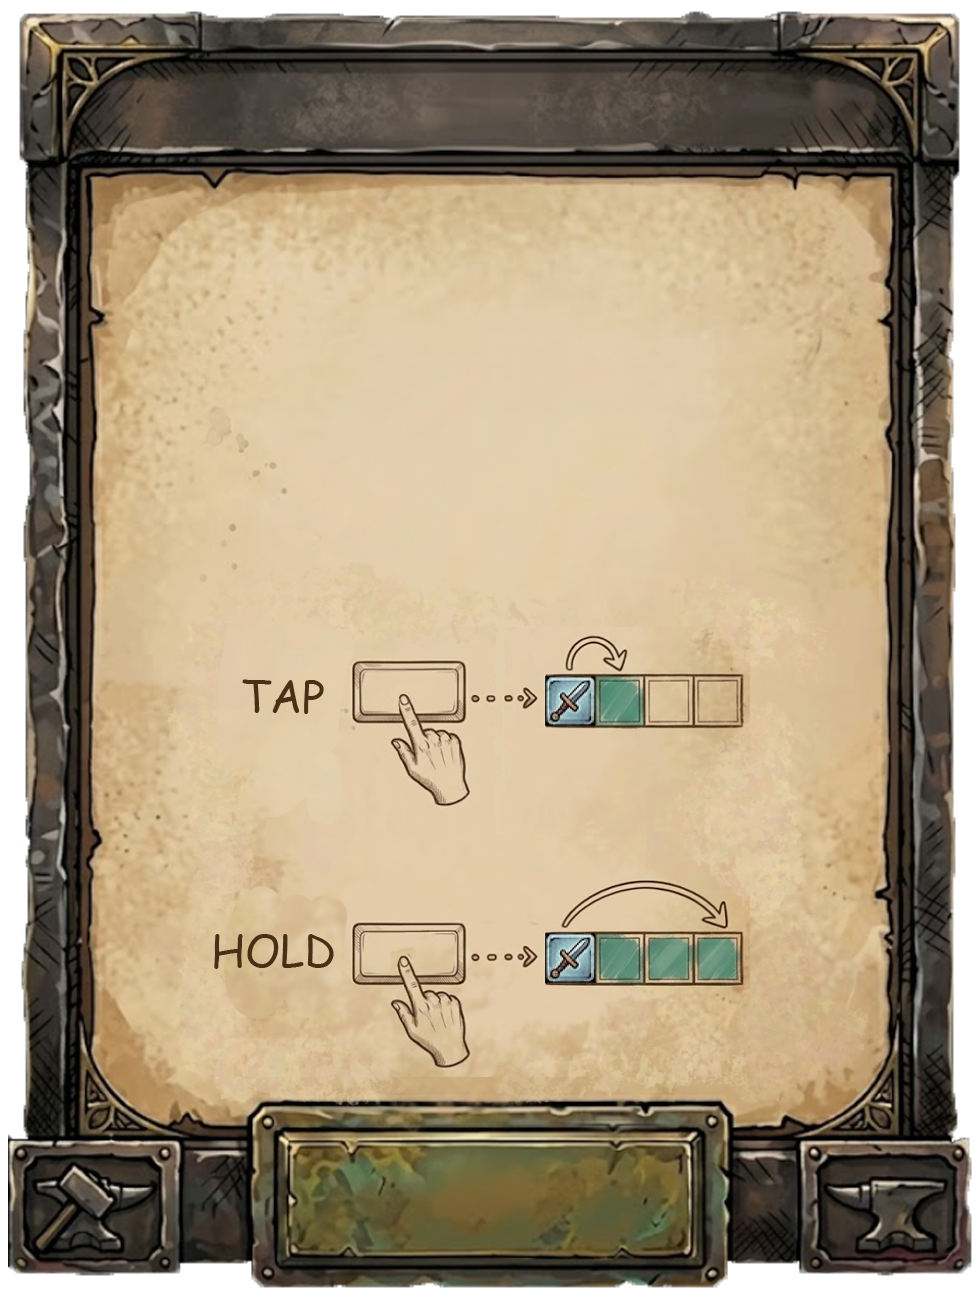
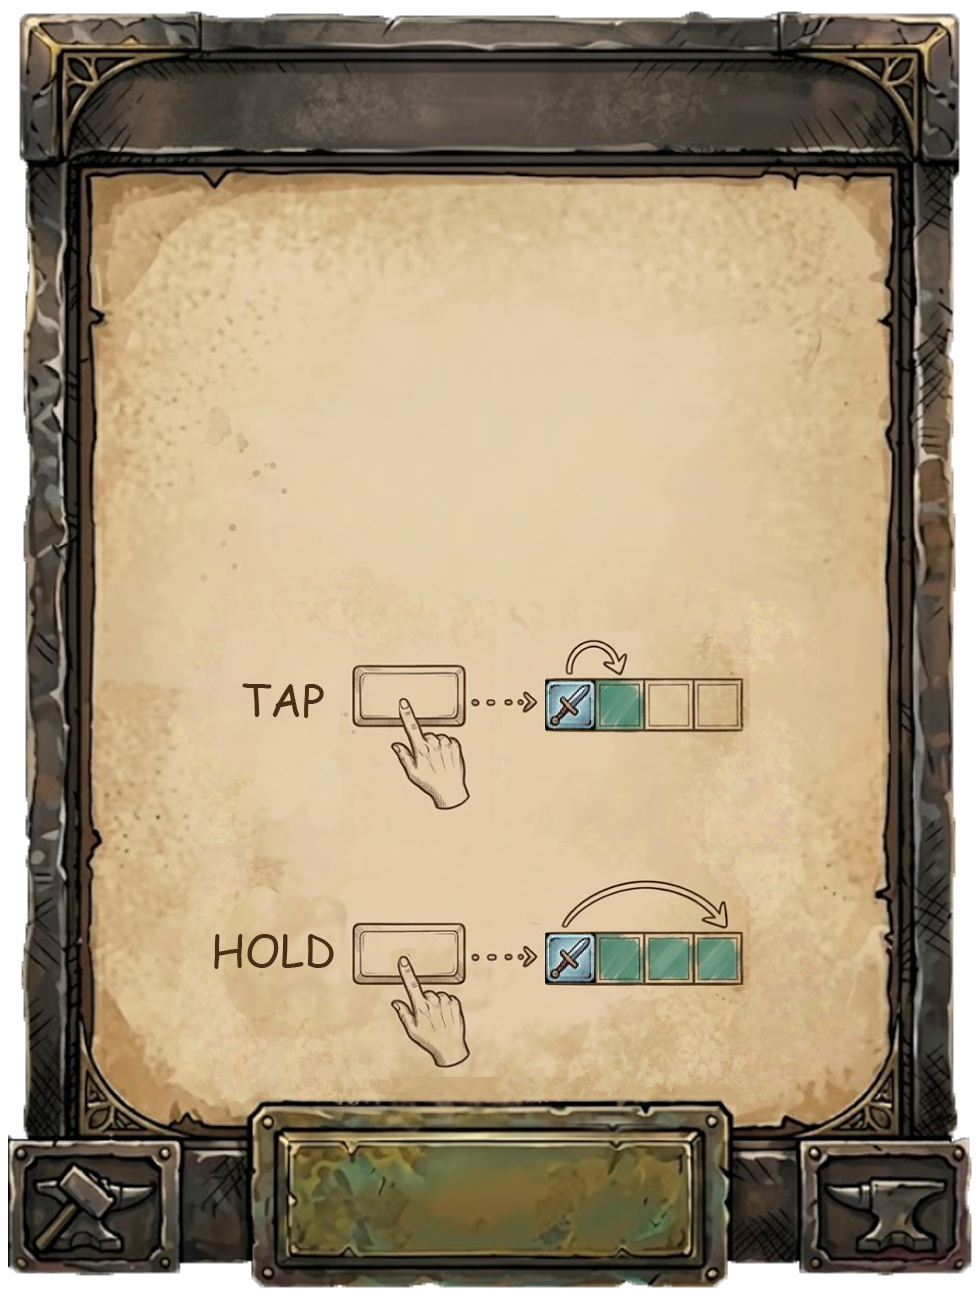
Heat timer + quality tiers, quality overlays, and dialogue/forge UI polish
Quality system:
- Per-trait heat timer (heatTimers; ⏱ readout, top-left, shown only once
  heating starts; safe 45s in the tutorial). Stabilize in time -> Epic;
  timer runs out -> the trait still fuses at Fine.
- Quality tiers Weak/Fine/Epic (+0/+10/+20 value). Blade HP caps quality
  at forge: >=80 Epic, 40-79 Fine, <40 Weak (min of heat outcome + cap).
- Quality overlays layered over the sword in the forge result AND the
  Design Desk preview: crack.png on Weak (hugs the blade), sparkle.png on
  Epic; Fine gets neither.

Forge-result window:
- Big bold quality headline under the sword; removed the Tier row.

Dialogue-box polish:
- Default frame: larger top padding so text no longer touches the top
  border on tall boxes.
- frame2 / frame9 / frame10 text lowered and centered above their baked
  diagrams; refreshed slider-lesson copy (frame9/10). Updated frame art.

Cheat/dev buttons (Skip Intro / +100 Gold / +100 Metals / Skip Tutorial)
remain on the side of the window in the live build.

Spec (Â§3/Â§4/Â§5) and plan.md updated.

Changed region(s): [[0.3677, 0.4889, 0.7661, 0.6112], [0.2451, 0.5195, 0.3371, 0.55]]

diff --git a/index.html b/index.html
@@ -373,7 +373,7 @@
         #newTraitModal { z-index: 1012; }
         #gameAlertModal { z-index: 1020; }
 
-        .dialogue-frame { position: relative; background: url('assets/ui/dialogue-frame.png') no-repeat center; background-size: 100% 100%; background-color: transparent; border: none; border-radius: 0; box-shadow: none; width: 82%; max-width: 300px; padding: 28px 36px 62px 36px; box-sizing: border-box; text-align: center; }
+        .dialogue-frame { position: relative; background: url('assets/ui/dialogue-frame.png') no-repeat center; background-size: 100% 100%; background-color: transparent; border: none; border-radius: 0; box-shadow: none; width: 82%; max-width: 300px; padding: 46px 36px 62px 36px; box-sizing: border-box; text-align: center; }
         .dialogue-title { font-family: 'Cinzel', serif; font-size: 15px; color: #4a3623; margin: 0 0 8px 0; font-weight: bold; }
         .dialogue-text { font-size: 13px; color: #3d2b1a; line-height: 1.55; margin: 0; }
         .dialogue-btn { position: absolute; top: 91.5%; left: 50%; transform: translate(-50%, -50%); background: transparent; border: none; color: #000; font-family: 'Cinzel', serif; font-size: 13px; font-weight: bold; cursor: pointer; padding: 4px 16px; letter-spacing: 0.5px; white-space: nowrap; }
@@ -384,12 +384,13 @@
            so lock the true image aspect ratio and confine text to the upper parchment. */
         .dialogue-frame.frame2 { background-image: url('assets/ui/dialogue-frame2.png'); aspect-ratio: 979 / 1309; padding: 0; }
         .dialogue-frame.frame2 .dialogue-title { position: absolute; top: 13%; left: 11%; right: 11%; margin: 0; font-size: 14px; }
-        .dialogue-frame.frame2 .dialogue-text { position: absolute; top: 20%; left: 11%; right: 11%; bottom: 42%; margin: 0; display: flex; flex-direction: column; align-items: center; justify-content: flex-start; text-align: center; overflow: hidden; font-size: 11px; line-height: 1.4; }
+        .dialogue-frame.frame2 .dialogue-text { position: absolute; top: 24%; left: 11%; right: 11%; bottom: 46%; margin: 0; display: flex; flex-direction: column; align-items: center; justify-content: center; text-align: center; overflow: hidden; font-size: 11px; line-height: 1.4; }
         /* Frames 9 & 10: Purify-slider lesson. Art (tap/hold, avoid-hazards) is baked into the lower half, so text sits in the upper parchment. */
         .dialogue-frame.frame9, .dialogue-frame.frame10 { aspect-ratio: 979 / 1309; padding: 0; }
         .dialogue-frame.frame9 { background-image: url('assets/ui/dialogue-frame9.png'); }
         .dialogue-frame.frame10 { background-image: url('assets/ui/dialogue-frame10.png'); }
-        .dialogue-frame.frame9 .dialogue-text, .dialogue-frame.frame10 .dialogue-text { position: absolute; top: 14%; left: 11%; right: 11%; bottom: 50%; margin: 0; display: flex; flex-direction: column; align-items: center; justify-content: flex-start; text-align: center; overflow: hidden; font-size: 11px; line-height: 1.4; }
+        .dialogue-frame.frame9 .dialogue-text, .dialogue-frame.frame10 .dialogue-text { position: absolute; top: 14%; left: 11%; right: 11%; bottom: 50%; margin: 0; display: flex; flex-direction: column; align-items: center; justify-content: center; text-align: center; overflow: hidden; font-size: 11px; line-height: 1.4; }
+        .dialogue-frame.frame10 .dialogue-text { top: 22%; bottom: 44%; } /* frame10's diagram sits lower, so its text drops further */
 
         /* Gameplay toast: shown briefly whenever the player steps onto a trait cell. */
         #traitToast { position: absolute; top: 64px; left: 50%; transform: translateX(-50%) translateY(-10px); background: rgba(44, 33, 22, 0.94); color: #f0d8a0; border: 1px solid #c8a84b; border-radius: 20px; padding: 8px 18px; font-family: 'Cinzel', serif; font-size: 13px; font-weight: bold; white-space: nowrap; box-shadow: 0 4px 10px rgba(0,0,0,0.4); z-index: 1000; opacity: 0; pointer-events: none; transition: opacity 0.3s ease, transform 0.3s ease; }
@@ -727,6 +728,7 @@
                         </div>
                     </div>
                     <div id="forge-instructions" class="forge-instructions">Tap Pulley to Lower Bucket</div>
+                    <div id="heat-timer" style="position: absolute; top: 8px; left: 8px; font-size: 13px; font-weight: bold; color: #ffd27f; background: rgba(0,0,0,0.6); padding: 3px 9px; border-radius: 6px; z-index: 10; display: none;"></div>
                 </div>
                 <button class="cancel-btn" onclick="cancelHeat()">Cancel Forging</button>
             </div>
@@ -745,6 +747,7 @@
                     <img id="preview-grip" src="" style="z-index: 2;">
                     <img id="preview-guard" src="" style="z-index: 3;">
                     <img id="preview-pommel" src="" style="z-index: 4;">
+                    <img id="preview-overlay" src="" style="z-index: 5; display: none;">
                 </div>
                 
                 <div class="tab-container">
@@ -979,9 +982,11 @@
         let bladeUnlocked = { Shortsword: true, Longsword: true, Broadsword: true };
         const BLADE_UNLOCK_COST = 50;
 
-        function openDesignModal(callback, traits) {
+        let designQuality = null; // projected quality of the sword being designed → drives the crack/sparkle preview overlay
+        function openDesignModal(callback, traits, quality) {
             pendingForgeCallback = callback;
             designTraits = traits || activeTraits; // which traits' part art to show
+            designQuality = quality || swordQuality({ traits: designTraits });
             document.getElementById('designModal').style.display = 'flex';
             currentDesign = { blade: 0, grip: 0, guard: 0, pommel: 0 };
             updateDesignPreview();
@@ -1135,6 +1140,10 @@
             document.getElementById('preview-grip').src = designPartSrc('grip', currentDesign, designTraits);
             document.getElementById('preview-guard').src = designPartSrc('guard', currentDesign, designTraits);
             document.getElementById('preview-pommel').src = designPartSrc('pommel', currentDesign, designTraits);
+            // Quality overlay preview: cracks on Weak, sparkles on Epic (matches the forge-result render).
+            const ov = document.getElementById('preview-overlay');
+            const ovSrc = designQuality === 'Weak' ? 'assets/sword-parts/overlays/crack.png' : designQuality === 'Epic' ? 'assets/sword-parts/overlays/sparkle.png' : '';
+            if (ovSrc) { ov.src = ovSrc; ov.style.display = 'block'; } else { ov.style.display = 'none'; }
         }
 
         function switchDesignTab(category) {
@@ -1220,8 +1229,8 @@
             { waitAction: 'switchToForge', hand: [{ sel: '#nav-right', side: 'leftOf' }] },
             { text: "Open the chart to get an idea of what metals we need to use to craft a flame sword." },
             { waitAction: 'chartClosed', hand: [{ sel: '#btnChart', side: 'above' }] },
-            { onShow: () => { purifyEnabled = true; }, frame: 9, text: "Hold a metal button to use the slider and move up to 3 blocks with just one metal." },
-            { frame: 10, text: "Plan your path and avoid impure zones. Now hold Magnesium and move west for a fiery sword!" },
+            { onShow: () => { purifyEnabled = true; }, frame: 9, text: "Hold a metal button to use the slider and move up to 3 blocks with just one metal. That way you can craft swords without using too much of your resources." },
+            { frame: 10, text: "Plan your path and avoid impure zones. You can also hold the button to jump over the hazard zone! Hold Magnesium and move west." },
             { waitAction: 'reachFlameTrait', hand: [{ sel: '#btnMagnesium', side: 'above' }] },
             { waitAction: 'heatFlame' },
             { text: "Click on 'Record Composition' to save the metals we used to craft a sword with a specific trait." },
@@ -1469,6 +1478,31 @@
             lightning: { stageBands: [[52, 64], [52, 64]], stabilize: 0.8, decay: 26, pump: 12, hold: 38 }, // fast two-strike
             dark:      { lo: 40, hi: 70, hidden: true, hideEvery: 1.1 },                // thumb flickers hidden
         };
+        // Quality tiers (low→high) and the value bonus each adds to a trait's distance-based base value.
+        const QUALITY_ORDER = ['Weak', 'Fine', 'Epic'];
+        const QUALITY_BONUS = { Weak: 0, Fine: 10, Epic: 20 };
+        // Per-trait heat timer: seconds of heating-phase time before the heat "rushes" (quality drops to Fine).
+        // Generous first pass; tutorial heats get a safe long timer. Unlisted traits use DEFAULT_HEAT_TIMER.
+        const heatTimers = {
+            grace: 7.5, fury: 8, lightning: 8.5,
+            noble: 10.5, honor: 10.5, dark: 10.5,
+            water: 11, celestial: 11, flexible: 11, storm: 11, savage: 11, luck: 11, accurate: 11, cursed: 11,
+            durable: 11.5, endurance: 14
+        };
+        const DEFAULT_HEAT_TIMER = 9, TUTORIAL_HEAT_TIMER = 45;
+        // A battered blade caps quality at forge time: HP≥80 → Epic, 40–79 → Fine, <40 → Weak.
+        function healthQualityCap() { return health >= 80 ? 'Epic' : health >= 40 ? 'Fine' : 'Weak'; }
+        // Copy a trait with its quality capped at `cap` and its value recomputed for the resulting tier.
+        function applyQualityCap(t, cap) {
+            const q = QUALITY_ORDER[Math.min(QUALITY_ORDER.indexOf(t.quality), QUALITY_ORDER.indexOf(cap))];
+            const base = (t.baseValue != null) ? t.baseValue : ((t.value || 0) - (QUALITY_BONUS[t.quality] || 0));
+            return Object.assign({}, t, { quality: q, baseValue: base, value: base + QUALITY_BONUS[q] });
+        }
+        // The sword's overall quality = its highest-tier trait (drives the crack/sparkle overlay).
+        function swordQuality(sword) {
+            if (!sword.traits || !sword.traits.length) return null;
+            return sword.traits.reduce((best, t) => QUALITY_ORDER.indexOf(t.quality) > QUALITY_ORDER.indexOf(best) ? t.quality : best, 'Weak');
+        }
         let heatCfg = DEFAULT_HEAT;
         // Runtime state for the dynamic heating variants (reset each heat by initHeatDynamics).
         let heatElapsed = 0, heatStage = 0, jumpsDone = 0, hideOn = false, nextGust = 0, nextJitter = 0, nextJump = 0, nextHide = 0, curCenter = 50, lastHeatGradient = '';
@@ -1519,23 +1553,31 @@
         function calculateSwordValue(traits) { return (!traits || traits.length === 0) ? 5 : traits.reduce((sum, t) => sum + (t.value || 0), 0); }
 
         function showForgeResult(sword) {
+            // Quality overlay: cracks on a Weak sword, sparkling stars on an Epic one (Fine gets neither).
+            const q = swordQuality(sword);
+            const overlaySrc = q === 'Weak' ? 'assets/sword-parts/overlays/crack.png' : q === 'Epic' ? 'assets/sword-parts/overlays/sparkle.png' : '';
+            const overlayHtml = overlaySrc ? `<img src="${overlaySrc}" style="position: absolute; top: 0; left: 0; width: 100%; height: 100%; object-fit: contain; z-index: 5; pointer-events: none;">` : '';
             const imageHtml = `
                 <div style="width: 200px; height: 200px; position: relative; margin: 0 auto 15px auto; background: rgba(0,0,0,0.05); border-radius: 8px; border: 2px inset #ccc; box-shadow: inset 0 0 10px rgba(0,0,0,0.1);">
                     <img src="${designPartSrc('blade', sword.design, sword.traits)}" style="position: absolute; top: 0; left: 0; width: 100%; height: 100%; object-fit: contain; z-index: 1; filter: drop-shadow(2px 2px 2px rgba(0,0,0,0.4));">
                     <img src="${designPartSrc('grip', sword.design, sword.traits)}" style="position: absolute; top: 0; left: 0; width: 100%; height: 100%; object-fit: contain; z-index: 2; filter: drop-shadow(2px 2px 2px rgba(0,0,0,0.4));">
                     <img src="${designPartSrc('guard', sword.design, sword.traits)}" style="position: absolute; top: 0; left: 0; width: 100%; height: 100%; object-fit: contain; z-index: 3; filter: drop-shadow(2px 2px 2px rgba(0,0,0,0.4));">
                     <img src="${designPartSrc('pommel', sword.design, sword.traits)}" style="position: absolute; top: 0; left: 0; width: 100%; height: 100%; object-fit: contain; z-index: 4; filter: drop-shadow(2px 2px 2px rgba(0,0,0,0.4));">
+                    ${overlayHtml}
                 </div>
             `;
 
             const traitString = sword.traits.length > 0 ? sword.traits.map(t => `<span style="background:#e8f4f8; padding: 2px 6px; border-radius:4px; border:1px solid #bdc3c7; display:inline-block; margin:2px;">${t.quality} ${t.symbol} ${t.name}</span>`).join(' ') : 'None';
             const metalsString = metalsList.filter(m => sword.recipe[m] > 0).map(m => `${sword.recipe[m]} ${getInitials(m)}`).join(' | ');
-            
+            // Big, bold quality headline shown right under the sword (Epic purple / Fine blue / Weak grey).
+            const qColor = q === 'Epic' ? '#8e44ad' : q === 'Fine' ? '#2980b9' : '#7f8c8d';
+            const qualityHtml = q ? `<div style="text-align:center; font-size:26px; font-weight:bold; color:${qColor}; letter-spacing:1px; margin:-4px 0 14px 0;">${q}</div>` : '';
+
             document.getElementById('forgeResultDetails').innerHTML = `
                 ${imageHtml}
+                ${qualityHtml}
                 <div style="background: #fff; padding: 10px; border-radius: 6px; border: 1px solid #eee;">
                     <div style="display:flex; justify-content:space-between; margin-bottom: 5px;"><strong>Shape:</strong> <span>${sword.shape}</span></div>
-                    <div style="display:flex; justify-content:space-between; margin-bottom: 5px;"><strong>Tier:</strong> <span style="color:#8e44ad; font-weight:bold;">${getSwordTier(sword)}</span></div>
                     <div style="display:flex; justify-content:space-between; margin-bottom: 5px;"><strong>Value:</strong> <span style="color:#d35400; font-weight:bold;">${sword.value}g</span></div>
                     <div style="margin-bottom: 5px;"><strong>Metals Used:</strong><br><span style="font-size:12px; color:#555;">${metalsString}</span></div>
                     <div><strong>Active Traits:</strong><br><div style="margin-top:4px;">${traitString}</div></div>
@@ -1965,7 +2007,9 @@
         function resolvePurifyMinigame() {
             let totalSteps = stepsFromProgress(purifyProgress);
             const metal = getMetalForDir(pendingMove.dx, pendingMove.dy); availableMetals[metal]--; usedMetals[metal]++;
-            for (let i = 0; i < totalSteps; i++) { if (!move(pendingMove.dx, pendingMove.dy, false) || health <= 0) break; } updateUI();
+            // Dash steps pass over hazards harmlessly (applyHazard=false); only the final landing cell is checked.
+            for (let i = 0; i < totalSteps; i++) { if (!move(pendingMove.dx, pendingMove.dy, false, false)) break; }
+            applyHazardAtCurrent(); updateUI();
         }
 
         function showHeatArrow() { document.getElementById('heatArrow').style.display = 'inline-block'; }
@@ -2015,15 +2059,28 @@
         function showFlameHint() { document.getElementById('flameHintBanner').classList.add('show'); }
         function hideFlameHint() { document.getElementById('flameHintBanner').classList.remove('show'); }
 
-        function move(dx, dy, consumeMetal = true) {
+        // Apply hazard damage for the cell the sword is currently on (used on landing). Crossing a
+        // hazard mid-dash is harmless — damage is only checked where the sword lands.
+        function applyHazardAtCurrent() {
+            const idx = playerY * gridSize + playerX;
+            if (boardData[idx] === '💥') {
+                health -= 20; domCells[idx].classList.add('damage-flash'); setTimeout(() => domCells[idx].classList.remove('damage-flash'), 200);
+                if (health <= 0) { handleDeath(); return false; }
+            }
+            return true;
+        }
+
+        // applyHazard=false lets the sword pass over a hazard without taking damage (dash steps do this;
+        // the dash checks the final landing cell once, see resolvePurifyMinigame).
+        function move(dx, dy, consumeMetal = true, applyHazard = true) {
             const metal = getMetalForDir(dx, dy); if (consumeMetal && availableMetals[metal] <= 0) return false;
             const newX = playerX + dx, newY = playerY + dy;
             if (newX >= 0 && newX < gridSize && newY >= 0 && newY < gridSize) {
                 if (consumeMetal) { availableMetals[metal]--; usedMetals[metal]++; }
                 const oldIndex = playerY * gridSize + playerX, newIndex = newY * gridSize + newX; playerX = newX; playerY = newY;
-                updateVision(); renderCell(oldIndex); renderCell(newIndex); 
+                updateVision(); renderCell(oldIndex); renderCell(newIndex);
 
-                if (boardData[newIndex] === '💥') {
+                if (applyHazard && boardData[newIndex] === '💥') {
                     health -= 20; domCells[newIndex].classList.add('damage-flash'); setTimeout(() => domCells[newIndex].classList.remove('damage-flash'), 200);
                     if (health <= 0) { handleDeath(); return false; }
                 }
@@ -2071,11 +2128,13 @@
                     pendingHeatTrait = foundTrait; pendingHeatIndex = currentIndex; forgePhase = 'pulley'; heatScore = 0; heatCompletion = 0;
                     // Per-trait heating variant (Tier A). Tutorial heats stay on the default band so onboarding isn't harder.
                     heatCfg = (tutorialStep < tutorialFlow.length) ? Object.assign({}, DEFAULT_HEAT) : Object.assign({}, DEFAULT_HEAT, heatConfigs[foundTrait.id]);
+                    heatCfg.timer = (tutorialStep < tutorialFlow.length) ? TUTORIAL_HEAT_TIMER : (heatTimers[foundTrait.id] || DEFAULT_HEAT_TIMER);
                     initHeatDynamics(); // resets timers/stages, generates random bands, draws the initial green band(s)
                     
                     document.getElementById('forge-bucket').style.top = '-100%'; document.getElementById('forge-pulley').style.transform = 'rotate(0deg)';
                     document.getElementById('forge-meter-container').style.display = 'none'; document.getElementById('forge-instructions').textContent = 'Tap Pulley to Lower Bucket';
                     document.getElementById('interactive-heat-thumb').style.left = '0%'; document.getElementById('heatModal').style.display = 'flex';
+                    { const ht = document.getElementById('heat-timer'); ht.style.display = 'none'; ht.textContent = ''; } // timer shows only once heating starts
                     cueHeat('#forge-pulley', 'leftOf'); // point/glow the pulley first
                 }
             } else gameAlert("There is no hidden trait to heat on this square!");
@@ -2089,6 +2148,7 @@
 
             setTimeout(() => {
                 forgePhase = 'heating'; document.getElementById('forge-instructions').textContent = 'Pump Bellows! Keep heat in Green!';
+                { const ht = document.getElementById('heat-timer'); ht.textContent = '⏱ ' + heatCfg.timer.toFixed(1) + 's'; ht.style.display = 'block'; }
                 document.getElementById('forge-meter-container').style.display = 'block'; lastHeatTime = performance.now();
                 cueHeat('#forge-bellow', 'above'); // now point/glow the bellow
                 heatAnimationFrame = requestAnimationFrame(updateInteractiveHeatLoop);
@@ -2134,6 +2194,7 @@
         function updateInteractiveHeatLoop(time) {
             if (forgePhase !== 'heating') return;
             const dt = (time - lastHeatTime) / 1000; lastHeatTime = time; heatElapsed += dt;
+            const htEl = document.getElementById('heat-timer'); if (htEl) htEl.textContent = '⏱ ' + Math.max(0, heatCfg.timer - heatElapsed).toFixed(1) + 's';
             heatScore -= heatCfg.decay * dt;
             if (heatCfg.blood) heatScore -= heatScore * 0.15 * dt; // Blood: bleeds faster the hotter it is
             if (bellowHeld) heatScore += heatCfg.hold * dt; // holding the bellow raises heat gradually
@@ -2158,7 +2219,7 @@
                     } else {
                         forgePhase = 'done'; cancelAnimationFrame(heatAnimationFrame);
                         document.getElementById('forge-instructions').textContent = 'Forged!';
-                        setTimeout(() => { resolveInteractiveHeatMinigame(); }, 600);
+                        setTimeout(() => { resolveInteractiveHeatMinigame('Epic'); }, 600);
                         return;
                     }
                 }
@@ -2168,16 +2229,24 @@
                 heatCompletion -= dt * (tooHot ? heatCfg.overheatBleed : 0.5); if (heatCompletion < 0) heatCompletion = 0;
                 document.getElementById('forge-instructions').textContent = tooHot ? 'Too Hot! Slow down!' : 'Use the bellow to heat the furnace.';
             }
+            // Timer ran out before the heat stabilized → forge anyway, but at reduced (Fine) quality.
+            if (heatElapsed >= heatCfg.timer) {
+                forgePhase = 'done'; cancelAnimationFrame(heatAnimationFrame);
+                document.getElementById('heat-timer').textContent = '⏱ 0.0s';
+                document.getElementById('forge-instructions').textContent = "Time's up — rushed forge!";
+                setTimeout(() => { resolveInteractiveHeatMinigame('Fine'); }, 600);
+                return;
+            }
             heatAnimationFrame = requestAnimationFrame(updateInteractiveHeatLoop);
         }
 
-        function resolveInteractiveHeatMinigame() {
+        function resolveInteractiveHeatMinigame(heatQuality) {
             document.getElementById('heatModal').style.display = 'none';
             forgePhase = 'idle'; bellowHeld = false; clearHeatCues();
 
-            const quality = 'Epic'; const qualityBonus = 20; const baseVal = Math.floor((Math.hypot(playerX - 25, playerY - 25) / 35.355339) * 100);
+            const quality = heatQuality || 'Epic'; const baseVal = Math.floor((Math.hypot(playerX - 25, playerY - 25) / 35.355339) * 100);
             if (!discoveredTraits[pendingHeatIndex]) { discoveredTraits[pendingHeatIndex] = true; renderCell(pendingHeatIndex); }
-            activeTraits.push({ ...pendingHeatTrait, quality: quality, value: baseVal + qualityBonus });
+            activeTraits.push(Object.assign({}, pendingHeatTrait, { quality: quality, baseValue: baseVal, value: baseVal + QUALITY_BONUS[quality] }));
             domCells[pendingHeatIndex].style.backgroundColor = '#f39c12'; 
             
             setTimeout(() => { domCells[pendingHeatIndex].style.backgroundColor = ''; renderCell(pendingHeatIndex); }, 200);
@@ -2247,7 +2316,7 @@
                 craftedSwords.push(newSword); totalSwordsCrafted++; purifyEnabled = true; updateUI(); showForgeResult(newSword);
                 if (tutorialStep < tutorialFlow.length && tutorialFlow[tutorialStep].waitAction === 'craftFlameRecipe' && bp.traits.some(t => t.id === 'flame')) { hideHands(); tutorialStep++; }
                 if (shopSellPhase === 'craft' && bp.traits.some(t => t.id === 'flame')) { hideHands(); shopSellPhase = 'toShop'; } // shop-sell guide: now send it to the shop
-            }, bp.traits);
+            }, bp.traits, swordQuality({ traits: bp.traits })); // auto-craft keeps the recorded quality (no HP cap)
         }
 
         function forgeSword() {
@@ -2255,11 +2324,15 @@
             const totalUsed = metalsList.reduce((sum, m) => sum + usedMetals[m], 0);
             if (totalUsed === 0) { gameAlert("You need to use at least 1 metal (by moving) to forge a blade!"); return; }
             hideForgeArrow(); hideHands();
-            
+            // Projected quality (HP cap applied now, before HP resets in the callback) drives the design-desk overlay.
+            const projectedQ = swordQuality({ traits: activeTraits.map(t => applyQualityCap(t, healthQualityCap())) });
             openDesignModal((selectedShapeName, finalDesignObj) => {
-                const newSword = { shape: selectedShapeName, design: finalDesignObj, traits: [...activeTraits], recipe: { ...usedMetals }, value: calculateSwordValue(activeTraits) };
+                // A battered blade (low HP from hazard landings) caps the final quality — computed before HP resets below.
+                const cap = healthQualityCap();
+                const finalTraits = activeTraits.map(t => applyQualityCap(t, cap));
+                const newSword = { shape: selectedShapeName, design: finalDesignObj, traits: finalTraits, recipe: { ...usedMetals }, value: calculateSwordValue(finalTraits) };
                 craftedSwords.push(newSword); totalSwordsCrafted++; purifyEnabled = true; tutorialMetalLock = false; // first sword forged: unlock metals, auto-gen, Record Composition & Chart
-                lastForgedMixture = { traits: [...activeTraits], recipe: { ...usedMetals } }; // enables "Record Last Mixture" after forging
+                lastForgedMixture = { traits: [...finalTraits], recipe: { ...usedMetals } }; // enables "Record Last Mixture" after forging
                 const oldIndex = playerY * gridSize + playerX; activeTraits = []; usedMetals = { titanium: 0, steel: 0, aluminium: 0, magnesium: 0, bronze: 0, blackIron: 0, iron: 0, redIron: 0 };
                 health = 100; playerX = 25; playerY = 25; 
                 updateVision(); renderCell(oldIndex); renderCell(playerY * gridSize + playerX); updateUI(); centerCameraOnPlayer(); 
@@ -2267,7 +2340,7 @@
                 // Advance past the forge gate now, but show the next dialogue only when the
                 // forge-result modal is closed (closeForgeResultModal) so it doesn't cover the reveal.
                 if (tutorialStep < tutorialFlow.length && tutorialFlow[tutorialStep].waitAction === 'forge') tutorialStep++;
-            });
+            }, activeTraits, projectedQ);
         }
 
         /* --- FAILSAFE CUSTOMER PROCESSING --- */

diff --git a/specs/game-design.md b/specs/game-design.md
@@ -23,7 +23,7 @@ You play a blacksmith who explores a dark 50×50 grid to discover magical traits
 
 - **Grid:** 50×50 (2500 cells). Player starts at center **(25, 25)**.
 - **Vision:** radius 3.5; fog clears in a circle around the player as they move.
-- **Hazards:** 20% of cells are explosions (💥), placed by seeded RNG (seed `1337`), never on the center start. Hitting one costs **−20 HP** (max 100). Reaching 0 HP triggers death.
+- **Hazards:** 20% of cells are explosions (💥), placed by seeded RNG (seed `1337`), never on the center start. **Landing** on one costs **−20 HP** (max 100). Damage is only applied to the cell the sword **lands on** — **crossing over** a hazard mid-dash (a 2- or 3-block Purify dash) is harmless, even over multiple hazards in a row. Reaching 0 HP triggers death. A low HP total also **caps the forged sword's quality** (see §4): a battered blade forges a lower-quality sword.
 - **Death:** shatters the active blade — clears active traits and used metals, restores HP to 100, and resets the player to center. Crafted swords, gold, etc. are kept.
 - **8-direction movement**, each direction costs 1 unit of a specific metal:
 
@@ -52,7 +52,7 @@ Holding a movement button charges a slider that bounces 0↔100 (speed `0.15`). 
 | 25–75 (mid)    | 2 blocks |
 | else (edges)   | 1 block |
 
-Cost: exactly **1 metal** of the direction's type (consumed once, regardless of dash distance). The dash stops early at the map edge or on death.
+Cost: exactly **1 metal** of the direction's type (consumed once, regardless of dash distance). The dash stops early at the map edge. Hazards along the way are passed over harmlessly; only the **final landing cell** is checked for hazard damage (and can trigger death).
 
 While the button is held, a **live path preview** (the green `tile_move.png`) highlights the cells the sword would travel into — 1, 2 or 3 tiles in the move direction — updating in sync with the slider's current zone, and clamped at the map edge. It clears on release, and the actual dash matches the previewed distance.
 
@@ -85,7 +85,11 @@ Triggered by the **Heat** button while standing on a discovered trait. Interacti
 
 On success the trait fuses onto the active blade and a **"`<symbol>` `<name>` trait acquired"** toast appears (game-wide, not tutorial-only). During the tutorial this toast shows first, then the post-heat dialogue follows after a short delay.
 
-> ⚠️ **Implementation note / known discrepancy:** quality is currently hardcoded to **Epic (+20 value bonus)** on every successful heat (`resolveInteractiveHeatMinigame`). The tiered Weak/Fine/Epic quality outcomes from the original GDD are not implemented. Decide whether to keep Epic-only or restore tiers.
+**Heat timer → quality.** A countdown runs during the heating (bellows) phase, its length **per trait** (`heatTimers`; e.g. Grace 7.5s, most static traits 9s, dynamic/staged ~11s, Durable 11.5s, Endurance 14s; **tutorial heats get a safe 45s**). **Stabilize before the timer ends → the trait fuses at `Epic`.** If the timer runs out first, the trait still fuses but at `Fine` (one tier down) — no hard failure. The remaining time is shown as a `⏱` readout in the heat modal.
+
+### Quality tiers
+
+Three tiers, low→high: **`Weak` (+0) · `Fine` (+10) · `Epic` (+20)** value bonus (added to the trait's distance-based base value; each trait stores `baseValue` + `quality`). A trait's heat outcome (Epic/Fine above) is then **capped at forge time by the blade's HP** (see §3): HP ≥ 80 → Epic allowed, 40–79 → capped at Fine, < 40 → Weak. Final quality = `min(heat outcome, HP cap)`; Weak is the floor. The forged sword's overall quality = its highest-tier trait, which drives the quality overlay (see §5).
 
 ## 5. Forging & weapons
 
@@ -97,8 +101,9 @@ On success the trait fuses onto the active blade and a **"`<symbol>` `<name>` tr
 
 ### Sword value & tiers
 
-- **Value** = sum of fused trait values (base distance value + quality bonus). A sword with **zero traits = 5g** base.
-- **Tiers** by value: I Common (<30), II Uncommon (<60), III Rare (<90), IV Epic (<120), V Legendary (≥120).
+- **Value** = sum of fused trait values (base distance value + quality bonus — see §4). A sword with **zero traits = 5g** base.
+- **Tiers** by value: I Common (<30), II Uncommon (<60), III Rare (<90), IV Epic (<120), V Legendary (≥120). *(Value tier is distinct from trait **quality** Weak/Fine/Epic.)*
+- **Quality overlay:** both the **Design Desk preview** and the **forge-result** render layer a transparent overlay over the sword based on its overall quality — **cracks** (`overlays/crack.png`, hugging the blade) on a **Weak** sword, **sparkling stars** (`overlays/sparkle.png`) on an **Epic** one; **Fine** gets neither. In the Design Desk the overlay reflects the *projected* quality (heat outcome + the HP cap for a manual forge; the recorded quality for an Auto-Craft).
 
 ## 6. Economy
 
@@ -154,7 +159,7 @@ On success the trait fuses onto the active blade and a **"`<symbol>` `<name>` tr
 
 ## 9. Known discrepancies & open questions
 
-- Heat quality is Epic-only (see §4) — restore tiers or keep?
+- ~~Heat quality is Epic-only~~ — **resolved:** quality is now Weak/Fine/Epic, set by the heat timer and capped by blade HP (see §4).
 - Map seed is fixed (see §7) — should reset randomize the layout?
 - Dagger shape from original GDD is absent (see §5).
 - Metals expanded 4 → 8 vs the original GDD.

diff --git a/plan.md b/plan.md
@@ -11,11 +11,14 @@ A 2D grid-based blacksmith crafting game. Single-file build (`index.html`), auto
 ### Core gameplay
 - [x] 50×50 grid, fog of war, seeded layout (seed `1337`); 8-direction movement with 8 metals
 - [x] **Purify-dash slider** — hold a direction to charge; release in the red/yellow/green zone = 1/2/3-block dash (1 metal regardless of distance); live green `tile_move.png` path preview; cancel via centre button / slide-off / right-click
-- [x] Hazards (~20% of map), health (−20/hit), death shatters the active blade
+- [x] Hazards (~20% of map), health (−20 on **landing**; crossing over a hazard mid-dash is safe), death shatters the active blade
 - [x] 24 traits hidden on the map; value scales with distance from centre; one fuse per trait per blade
 - [x] **Heating minigame** — pulley → bellows → stabilize; glow + hand cues guide pulley-then-bellows
 - [x] **Bellow tap *and* hold** — a tap adds +16; holding raises heat gradually (~+22/sec net)
 - [x] **Per-trait heating variants** — every trait has a unique minigame via the `heatConfigs` table (band position/width, decay, stabilize, pump, hold, overheat; plus dynamic bands: oscillate/gust/jitter/multi-band/jump/stages/hidden). Tutorial heats stay on the default band. Fully reversible (delete a config → default).
+- [x] **Heat timer → quality** — a per-trait countdown (`heatTimers`; ⏱ readout in the heat modal, safe 45s in the tutorial). Stabilize in time → `Epic`; timer runs out → the trait still fuses at `Fine`. Quality tiers **Weak +0 / Fine +10 / Epic +20** value bonus.
+- [x] **Blade HP → quality** — at forge, low HP caps quality (≥80 Epic, 40–79 Fine, <40 Weak; `min(heat outcome, HP cap)`).
+- [x] **Quality overlays** — forge result layers a **crack** overlay on Weak swords and **sparkling stars** on Epic (`assets/sword-parts/overlays/`).
 - [x] **"New Trait Discovered!" box** on the first heat of each trait (icon + name), including during the tutorial
 - [x] **Design Desk** — blade/grip/guard/pommel art; trait-specific part art (Flame skin) via `traitSkins`; 7 unlockable balanced blade shapes (50g each); info-hint button
 - [x] **Forge** — 10 shapes; forge-result reveal; resets player to centre
@@ -64,7 +67,7 @@ A 2D grid-based blacksmith crafting game. Single-file build (`index.html`), auto
 
 ## ⚠️ Known / decisions to make
 - [ ] **`+100 Metals`, `+100 Gold`, and `Skip Intro` are visible to players** on the live site — gate them (key combo / `?cheats` URL flag) before a "real" release, or remove the cheats
-- [ ] Heat **quality** is hardcoded **Epic-only** (`resolveInteractiveHeatMinigame`) — restore Weak/Fine/Epic tiers, or keep? (separate from the per-trait *minigame* variety, which is done)
+- [x] ~~Heat **quality** is hardcoded **Epic-only**~~ — **done:** Weak/Fine/Epic driven by the heat timer + blade-HP cap, with crack/sparkle overlays
 - [ ] Map seed fixed (`1337`) — should reset randomize the layout?
 - [ ] Original GDD's **Dagger** shape is absent (10 shapes vs 11)
 